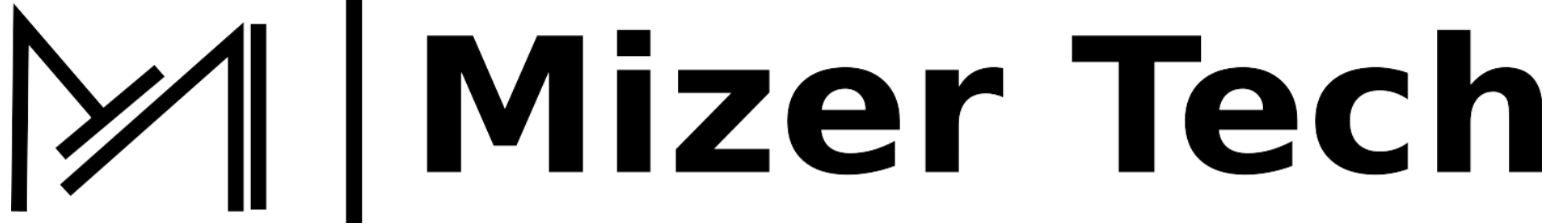
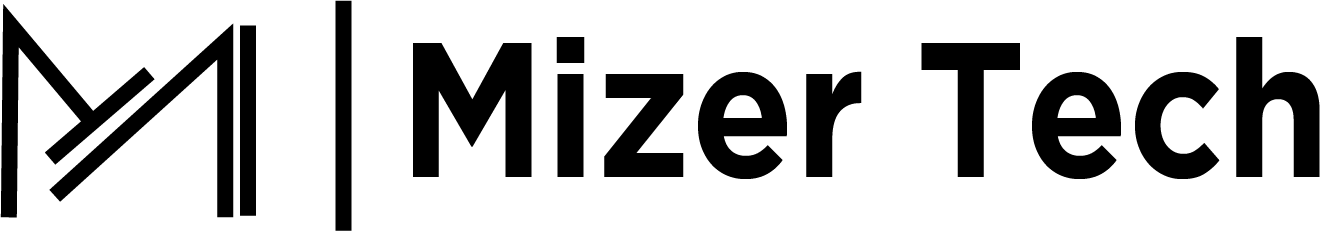
ini

Changed region(s): [[0.0, 0.0, 0.6474, 1.0], [0.6782, 0.125, 1.0, 0.7812]]

diff --git a/Docs/Setup.md b/Docs/Setup.md
@@ -1,15 +1,18 @@
 <picture> 
 <img
         alt="Mizer Tech logo and text: MizerTech"
-        src="/.g/Banner.png">
+        src="/.g/Banner.svg">
 </picture>
 
 # Setup IR Blaster for Flipper Zero
 <h3> Prerequisites </h3>
-Unleashed or similar firmware. External radios & infrared are not support on offical firmware. <br>
+Unleashed or similar firmware. External radios & infrared are not support on offical firmware.
 
 ![Unleashed Firmware](https://github.com/DarkFlippers/unleashed-firmware) <br>
-<br> <strong> 1.  Enable Debugging </strong> <br> ![Step1](./Media/Debug.gif) 
+
+<h3> If unleashed or similar firmware is installed proceed to next steps. </h3>
+
+<strong> 1.  Enable Debugging </strong> <br> ![Step1](./Media/Debug.gif) 
 <strong> 2. Enable 5v Power (Not required when charging) </strong> <br> ![Step2](./Media/GPIO5V.gif) 
 <strong> 3. Switch Infrared to send signal to 2(A7) </strong> <br> ![Step2](./Media/InfraredDebug.gif) <br>
 <h2>Remarks</h2>

diff --git a/Docs/Troubleshooting.md b/Docs/Troubleshooting.md
@@ -1,0 +1,10 @@
+<picture> 
+<img
+        alt="Mizer Tech logo and text: MizerTech"
+        src="/.g/Banner.png">
+</picture>
+
+# Troubleshooting for IR Blaster
+
+When I plug in the module it does not turn on.
+    > Ensure that 5v power is on as it is automatically turned off when a module is disconnected from the GPIO

diff --git a/README.md b/README.md
@@ -1,7 +1,7 @@
 <picture> 
 <img
         alt="Mizer Tech logo and text: MizerTech"
-        src="/.g/Banner.png">
+        src="/.g/Banner.svg">
 </picture>
 
 # Documentation for IR Blaster for Flipper Zero
